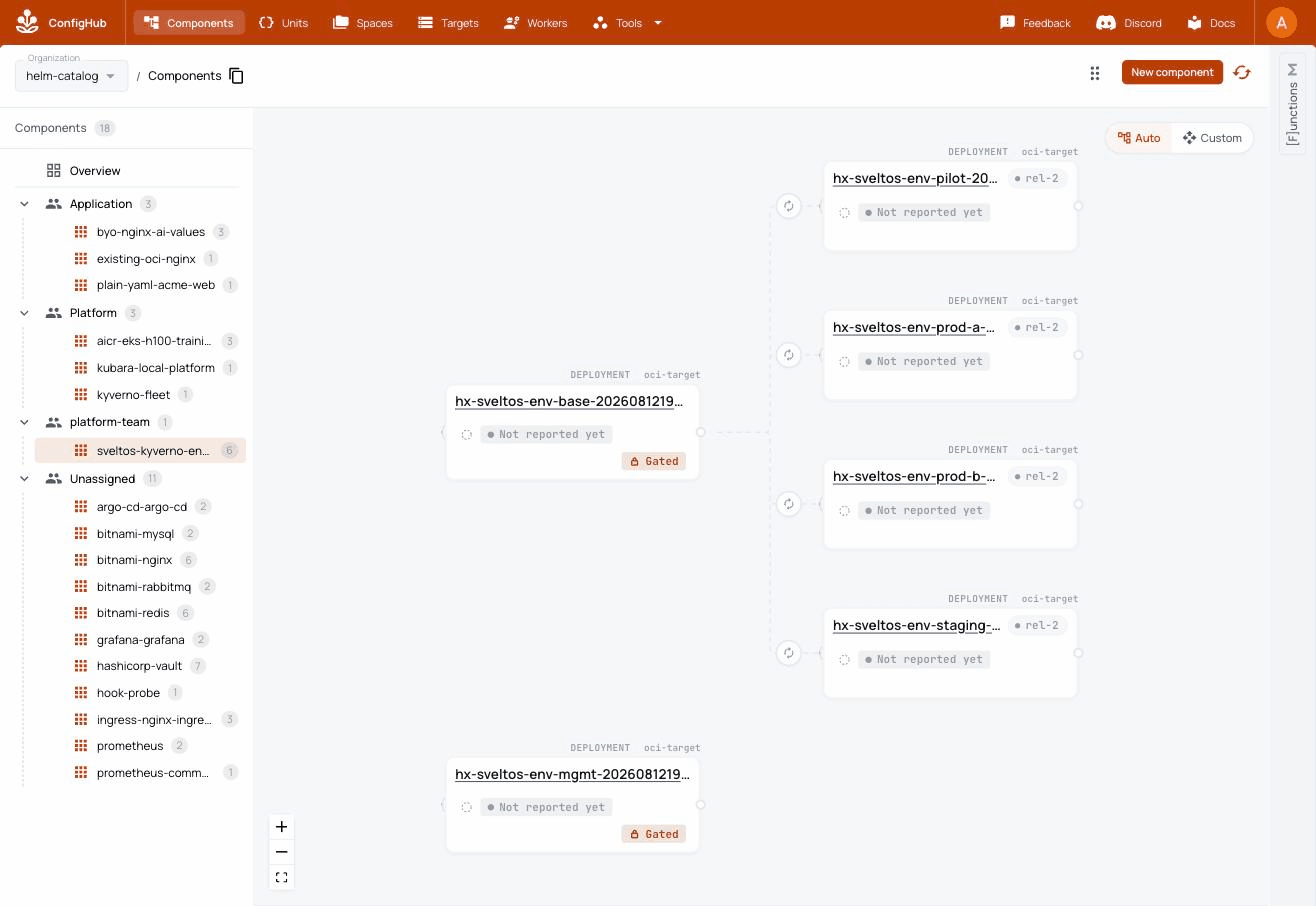
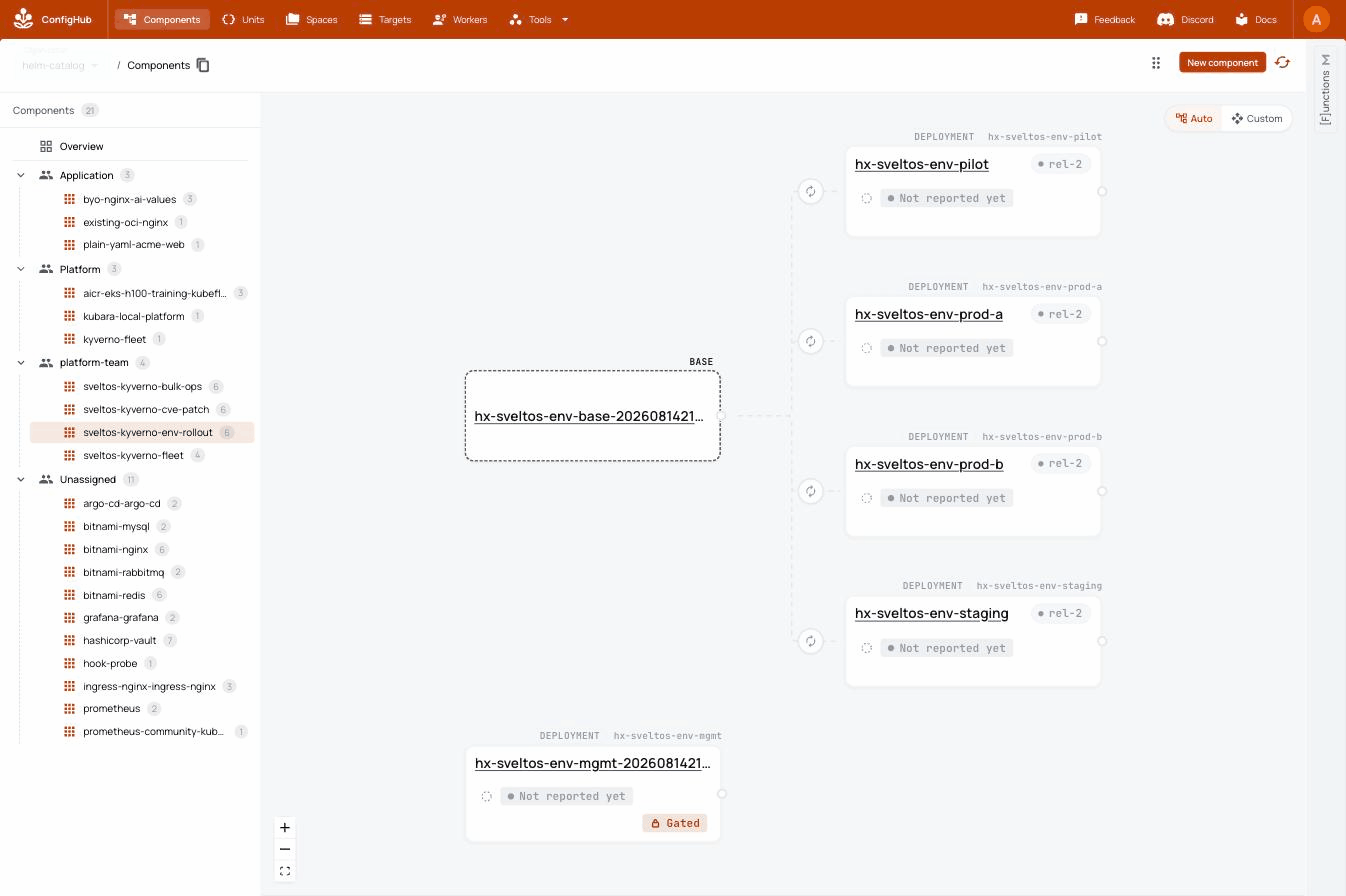
Show the Targets on the cards
The README's fleet frame is re-captured from the fresh chapter-three
recording: every deployment card is headed by its own named Target, and
the base renders as the dashed node with none, so the picture now shows
the destination model the receipts record. Caption follows.

diff --git a/README.md b/README.md
@@ -101,10 +101,12 @@ enough to be the point of the repository.
 ## See the result first
 
 This is the recorded chapter-three fleet as ConfigHub shows it: one base
-record on the left, one variant per cluster on the right, four
-workload clusters and the management record, every record at its second
-release after one reviewed change to the base. The base and management
-records carry armed gates:
+on the left, one variant per cluster on the right, and every deployment
+card headed by its own named Target — the cluster it ships to is
+ConfigHub's own destination model, not a selector line inside the YAML.
+Each variant sits at its second release after one reviewed change to the
+base, and the base is the dashed node with no Target at all, because the
+base ships nowhere:
 
 ![One base record fanning out to one variant per cluster](docs/images/sveltos/sveltos-flow-graph.png)
 
